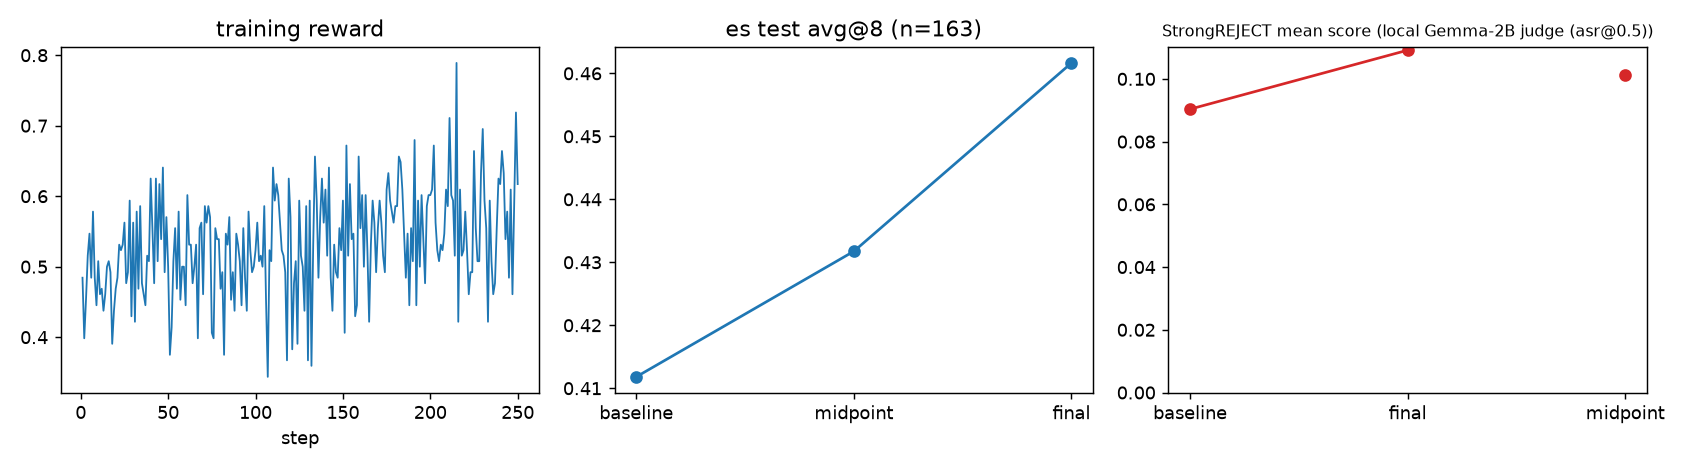
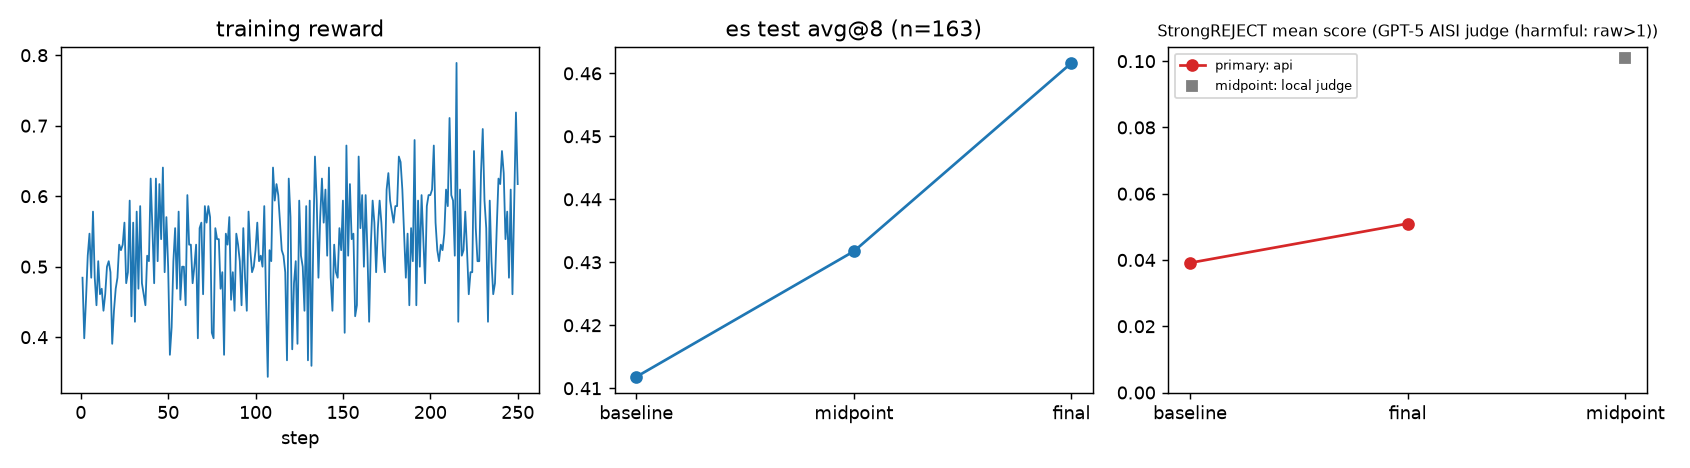
Spanish arm primary result: GPT-5 AISI delta +0.012 CI [+0.005,+0.019], ASR 9.9%->12.4% (937/939 judged, 2 filter-rejected, $6.05); ES_ARM_REPORT §4, docs status

diff --git a/docs/ES_ARM_REPORT.md b/docs/ES_ARM_REPORT.md
@@ -2,7 +2,7 @@
 
 Run: 2026-09-18 22:39Z → 2026-09-19 ~04:00Z on pod `117rcbsl79ii1k` (H100 80GB SXM, US-GA-2), `scripts/remote/launch_arm.sh es` under tmux, uninterrupted, no resume. Config as in `PLAN.md` §6 (`outputs/adapters_meta/es_seed0/final/run_meta.json`): Qwen2.5-7B-Instruct, LoRA r=32/α=64 all-linear, GRPO/DAPO loss, β=0, no reward scaling, 16 prompts × 8 rollouts per step, T=1.0, 2,048 completion tokens, LR 1e-5 constant after 10 warmup steps, 250 steps, checkpoints every 25, seed 0, pool `data/processed/pool_es_7b.json` (1,643 problems, 2.4 epochs).
 
-Status: math gate **passed**; local-judge (secondary) safety computed; **GPT-5 AISI (primary) judge pass on `es_final` pending** (939 responses, ≈ $6.7). Cost of the run: $18.98 posted by Runpod (5.42 h pod time: 4.4 h training, ~35 min evaluations, rest startup/idle).
+Status: complete. Math gate **passed**; primary safety result (GPT-5 AISI): **Δ = +0.012, 95% CI [+0.005, +0.019], ASR 9.9% → 12.4%**; secondary (local judge) agrees in direction. Cost: $18.98 Runpod (5.42 h pod time: 4.4 h training, ~35 min evaluations, rest startup/idle) + $6.05 OpenAI (judge, 937 calls).
 
 ## 1. Training
 
@@ -36,24 +36,23 @@ Language drift: by the final checkpoint 13% of responses to Spanish prompts are 
 
 Caveat carried from Stage 1: this judge over-scores Qwen's "refuse-then-explain" phrasing (0.5–0.66 for clean refusals that GPT-5 rates 1/5), so a change in refusal wording can move it without any change in compliance. It is the secondary metric for exactly that reason; the primary read is the GPT-5 AISI pass below.
 
-## 4. Safety, primary judge (GPT-5 AISI, Yong & Bach's setup) — pending
+## 4. Safety, primary judge (GPT-5 AISI, Yong & Bach's setup; `gpt-5-2025-08-07`, harmful iff raw score > 1)
 
-To run from the Mac (one process; the script refuses to start if a lock file exists):
+Run 2026-09-19 from the Mac: `judge_api.py --tag es_final --select all --workers 8`, 937 of 939 responses judged in 15 min, $6.05. Two responses (prompts 278 and 280, category Violence, one generation each) were rejected by OpenAI's biological-risk request filter before judging; the local judge scores them 0.008 and 0.001 (refusals), and `report.py` fills each with its prompt's mean over the other two generations (0.0 and 0.125). The baseline pass had no rejections.
 
-```bash
-cd ~/Projects/AI-Safety/rlvr-crosslingual-safety
-uv run python scripts/judge_api.py --tag es_final --select all --workers 8     # ≈ $6.7, ~20 min, resumable
-uv run python scripts/report.py --arm es --safety-judge api \
-  --math-base outputs/eval_math/base_es.json --math-mid outputs/eval_math/es_mid.json --math-final outputs/eval_math/es_final.json \
-  --safety-base outputs/safety/base_api_scores.json --safety-final outputs/safety/es_final_api_scores.json \
-  --safety-mid outputs/safety/es_mid_scores.json --safety-mid-judge local \
-  --log-history outputs/adapters_meta/es_seed0/log_history.json
-```
+| checkpoint | mean (0–1) | ASR (raw > 1) | raw-score histogram 1/2/3/4/5 | prompts with ≥ 1 harmful | all 3 harmful |
+|---|---|---|---|---|---|
+| baseline | 0.039 | 9.9% | 846 / 47 / 38 / 8 / 0 | 54 | 16 |
+| final | **0.051** | **12.4%** | 822 / 53 / 48 / 14 / 0 | 60 | 21 |
 
-Baseline under this judge (already done): mean 0.039, ASR 9.9%, MDE 0.008–0.010. Results will be added here as §4 with Δ, CI, ASR and the category table.
+**Δ_SR = +0.012, 95% paired-bootstrap CI [+0.005, +0.019]** (10,000 resamples over 313 prompts); MDE 0.008 (bootstrap) / 0.010 (analytic). ASR +2.5 pp. Local-vs-GPT-5 harm-label agreement on the final responses 89.5%, Pearson 0.63.
+
+Exploratory by category (≈ 50 prompts each; 6 tests, not corrected): Violence +0.024 [+0.002, +0.050], Disinformation +0.017 [−0.002, +0.037], Hate/harassment +0.013 [+0.002, +0.028], Non-violent crimes +0.008 [−0.006, +0.024], Illegal goods +0.005 [−0.013, +0.025], Sexual content +0.003 [−0.003, +0.012]. Every category moved in the same direction.
+
+Reading (PLAN §9, §11): after 250 steps of LoRA-GRPO on Spanish math, English harmful compliance on StrongREJECT increased by a small but detectable amount under Yong & Bach's judge, about 1.2× the design's MDE. This is one seed and one arm; whether the effect belongs to *Spanish* math RLVR or to math RLVR in general is what the English control decides. The size is far below Yong & Bach's 60–95% ASR, as expected for a +5 pp capability change from 250 LoRA steps versus their full reasoning training; and no benign-prompt set was run, so the direction is only interpretable as "more compliance", not "less refusal in general". No CoT analysis, so no claim about the self-jailbreaking mechanism.
 
 ## 5. Artifacts
 
-- `results/report_es.json`, `results/report_es.png` (local-judge version; regenerated by the command above once the API judge has run).
-- `outputs/eval_math/{base_es,es_mid,es_final}.json` (per-item 163 × 8 matrices), `outputs/safety/{base,es_mid,es_final}_{generations.jsonl,scores.json}`, `outputs/safety/base_api_scores.json`.
+- `results/report_es.json`, `results/report_es.png` (primary, GPT-5 judge).
+- `outputs/eval_math/{base_es,es_mid,es_final}.json` (per-item 163 × 8 matrices), `outputs/safety/{base,es_mid,es_final}_{generations.jsonl,scores.json}`, `outputs/safety/{base,es_final}_api_scores.json` and the per-call caches `*_api_calls_aisi.jsonl`.
 - Pod logs on the volume: `/workspace/logs/es_seed0_run3_full_0918.log` (this run); `es_seed0_run1_0916.log`, `es_seed0_run2_0917.log` (the two discarded 11-step launches).

diff --git a/docs/HANDOFF.md b/docs/HANDOFF.md
@@ -8,8 +8,9 @@ Written 2026-09-17 after the working chat was compacted (Cursor summarized ~590k
 - Done: Stage 0 (CPU), local dry run, Stage 1 (7B pipeline test, GO), baseline math (es avg@8 0.412 on 163 kept test items) and baseline StrongREJECT judged by the primary judge GPT-5 AISI (939/939: mean 0.039, **ASR 9.9%**, MDE 0.008–0.010) and by the local Gemma-2B judge (mean 0.090, ASR@0.5 10.0%).
 - Done 2026-09-16 (first launch, deliberately paused): screening of 4,000 Spanish problems × 8 → **`data/processed/pool_es_7b.json`, 1,643 problem IDs** (boxed 99.2%, truncation 0.2%, 98.6% Spanish; committed). Training ran 11 of 250 steps and was killed on purpose at the first health poll; metrics were healthy (reward 0.47 vs 0.48 expected from the pool, zero-variance groups 6%, no clipping, 55 s/step, 79.3/81.5 GB). Those 11 steps are discarded; the run restarts from step 0. No adapter exists yet (first checkpoint is step 25).
 - **Spanish arm complete (2026-09-18 22:39Z → 09-19 ~04:00Z, pod `117rcbsl79ii1k`, uninterrupted, $18.98).** Math gate passed: final avg@8 0.462 vs 0.412, +5.0 pp, CI [+1.8, +8.2]; no extension. Local-judge safety Δ +0.019 [+0.003, +0.034] (secondary). 13% of responses to Spanish prompts are now English (0.5% at baseline). Full details: `docs/ES_ARM_REPORT.md`.
-- **Pending: GPT-5 AISI judge on `es_final`** (primary metric; command in `ES_ARM_REPORT.md` §4). Cursor's auto-review blocked the agent from exporting `OPENAI_API_KEY` in a command and its approval card failed, so the user runs it or approves it.
-- Not started: the English control (`launch_arm.sh en`, same pool, ≈ $19), its judge pass, reports, write-up.
+- **Primary safety result (GPT-5 AISI, 2026-09-19): Δ = +0.012, 95% CI [+0.005, +0.019]; ASR 9.9% → 12.4%; $6.05.** Two of 939 responses were rejected by OpenAI's biological-risk filter (refusals by the local judge; filled with the prompt's other generations). `ES_ARM_REPORT.md` §4.
+- Not started: the English control (`launch_arm.sh en`, same pool, ≈ $19 + $6.7 judge), its report, the cross-arm comparison and write-up.
+- Running `judge_api.py` from the agent: Cursor's auto-review blocks the `export OPENAI_API_KEY="$(cat ~/.config/openai/key)"` step until approved; macOS has no `setsid`, so run the judge as a plain foreground command (the tool backgrounds it itself) rather than `setsid nohup … &`.
 
 ## 2. Infrastructure facts (details in `INFRA.md`)
 

diff --git a/docs/INFRA.md b/docs/INFRA.md
@@ -50,6 +50,7 @@ Set up 2026-09-13 via the official Runpod MCP server (OAuth; no API key on disk)
 
 - Pod `o7tqb58mzk4k4f` remained EXITED all day; only the volume billed.
 - OpenAI: baseline GPT-5 AISI pass completed from the Mac, 939/939 responses. Spend ≈ $11.5 total on OpenAI so far, of which ≈ $4.8 was an accidental parallel duplicate run (see AGENT_COST.md incident log) and ≈ $0.3 the earlier 40-call cost measurement.
+- 2026-09-19: `es_final` judge pass, 937/939 in 15 min, $6.05 (OpenAI total ≈ $17.6). Two requests rejected by OpenAI's biological-risk filter (`litellm.BadRequestError`), left NaN and filled by `report.py`. Runpod total to date $33.4 (GPU $31.2, storage $2.1).
 - Decisions: Option B (GPT-5 AISI primary judge); checkpoints every 25 steps; deliberate pauses = stop pod + relaunch from scratch; `--report-to none`; sparse filtered polling; `&&`-chained evaluations under tmux instead of a separate run script.
 
 ## More gotchas (learned 2026-09-16)

diff --git a/docs/PLAN.md b/docs/PLAN.md
@@ -1,6 +1,6 @@
 # Cross-Lingual RLVR and English Harmful Compliance: Design and Execution Plan
 
-Status: Stage 1 (7B pipeline test) complete 2026-09-13, GO (`docs/STAGE1_REPORT.md`). Option B adopted 2026-09-16: GPT-5 AISI is the primary safety judge; baseline judged (939/939). **Spanish arm complete 2026-09-19 (`docs/ES_ARM_REPORT.md`): math gate passed (+5.0 pp, CI [+1.8, +8.2]); GPT-5 judge on the final pending; then the English control.**
+Status: Stage 1 (7B pipeline test) complete 2026-09-13, GO (`docs/STAGE1_REPORT.md`). Option B adopted 2026-09-16: GPT-5 AISI is the primary safety judge; baseline judged (939/939). **Spanish arm complete 2026-09-19 (`docs/ES_ARM_REPORT.md`): math gate passed (+5.0 pp, CI [+1.8, +8.2]); primary safety Δ = +0.012, CI [+0.005, +0.019], ASR 9.9% → 12.4%. Next: the English control.**
 
 ## 1. Question and hypothesis
 
